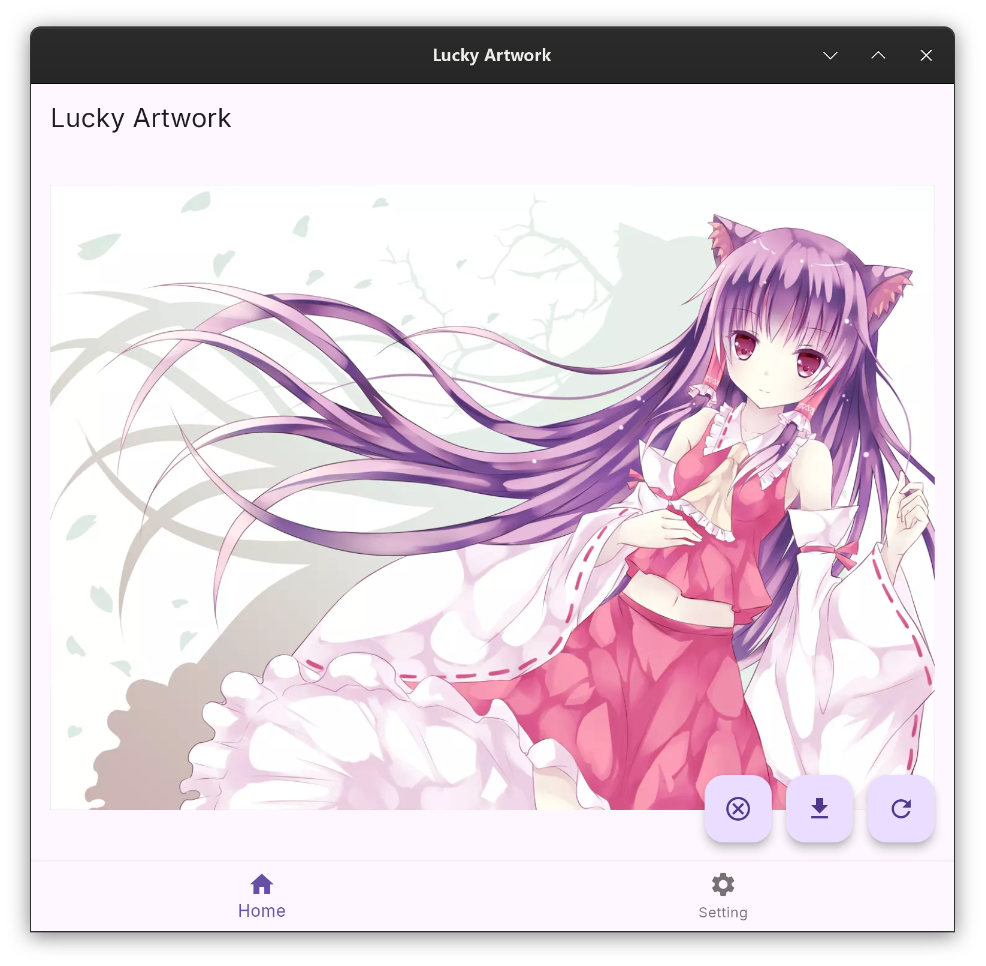
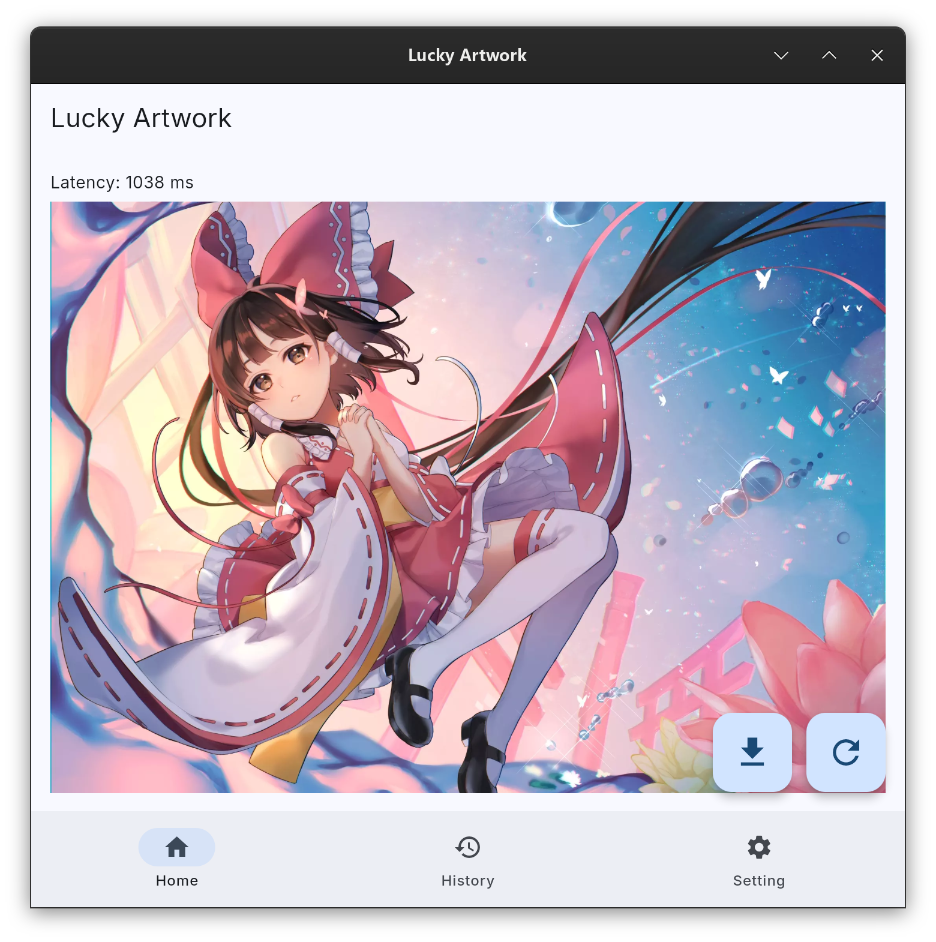
1.2.0 (Feat Fix Docs) DownloadProgressDisplay SwipingNavigationSync README
- Feat: Added download progress display.
- Fix: Fxed a bug where swiping and navigation were out of sync.
- Docs: Updated README.

diff --git a/lib/history/history.dart b/lib/history/history.dart
@@ -324,21 +324,38 @@ class HistoryState extends State<History> with AutomaticKeepAliveClientMixin{
                 final navigator = Navigator.of(context);
                 final message = ScaffoldMessenger.of(context);
                 int status = -1;
+                int total = selectedIndexes.length;
+                final progress = ValueNotifier<int>(0);
 
                 showDialog(
                   context: context,
                   barrierDismissible: false,
-                  builder: (_) => const Center(child: CircularProgressIndicator()),
+                  builder: (_) {
+                    return AlertDialog(
+                      title: const Text("Saving Images"),
+                      content: ValueListenableBuilder<int>(
+                        valueListenable: progress,
+                        builder: (context, current, _) {
+                          return Column(
+                            mainAxisSize: MainAxisSize.min,
+                            children: [
+                              LinearProgressIndicator(value: total == 0 ? 0 : current / total),
+                              Text("$current / $total"),
+                            ],
+                          );
+                        },
+                      ),
+                    );
+                  },
                 );
 
                 for (var index in selectedIndexes) {
                   final file = imageFiles[index];
                   
-                  if (await file.exists()) {
-                    status = await HistoryFunction().saveImage(file);
-                  }
+                  if (await file.exists()) status = await HistoryFunction().saveImage(file);
+                  progress.value++;
                 }
-                
+
                 navigator.pop();
                 HistoryFunction().showSnackBar(message, status);
                 

diff --git a/lib/main.dart b/lib/main.dart
@@ -176,24 +176,32 @@ class MainPageState extends State<MainPage> {
 
     if (agreed) {
       return Scaffold(
-      body: PageView(
-        controller: pageController,
-        children: [
-          Home(),
-          History(key: historyKey),
-          Setting(),
-        ],
-      ),
-      bottomNavigationBar: NavigationBar(
-        selectedIndex: selectedIndex,
-        onDestinationSelected: onItemTapped,
-        destinations: const [
-          NavigationDestination(icon: Icon(Icons.home), label: "Home"),
-          NavigationDestination(icon: Icon(Icons.history), label: "History"),
-          NavigationDestination(icon: Icon(Icons.settings), label: "Setting"),
-        ],
-      ),
-    );
+        body: PageView(
+          controller: pageController,
+          onPageChanged: (index) {
+            setState(() {
+              selectedIndex = index;
+              if (index == 1) {
+                historyKey.currentState?.refreshHistory();
+              }
+            });
+          },
+          children: [
+            Home(),
+            History(key: historyKey),
+            Setting(),
+          ],
+        ),
+        bottomNavigationBar: NavigationBar(
+          selectedIndex: selectedIndex,
+          onDestinationSelected: onItemTapped,
+          destinations: const [
+            NavigationDestination(icon: Icon(Icons.home), label: "Home"),
+            NavigationDestination(icon: Icon(Icons.history), label: "History"),
+            NavigationDestination(icon: Icon(Icons.settings), label: "Setting"),
+          ],
+        ),
+      );
     } else {
       return Scaffold(
         body: Text("Initializing ..."),

diff --git a/lib/setting/setting.dart b/lib/setting/setting.dart
@@ -16,9 +16,9 @@ class SettingState extends State<Setting> {
   
   TextSpan getVersion() {
     return TextSpan(
-      text: "1.2.0-beta.1",
+      text: "1.2.0",
       style: TextStyle(
-        color: Colors.orange,
+        color: Colors.green,
       ),
     );
   }

diff --git a/README.md b/README.md
@@ -15,4 +15,4 @@ A Flutter framework project that uses an API to get a random illustration.
 
 ## Cover Image
 
-[(Pixiv) 楽園の素敵なネコ](https://www.pixiv.net/artworks/27302543)
+[(Pixiv) 二色蓮花蝶](https://www.pixiv.net/artworks/89387820)
